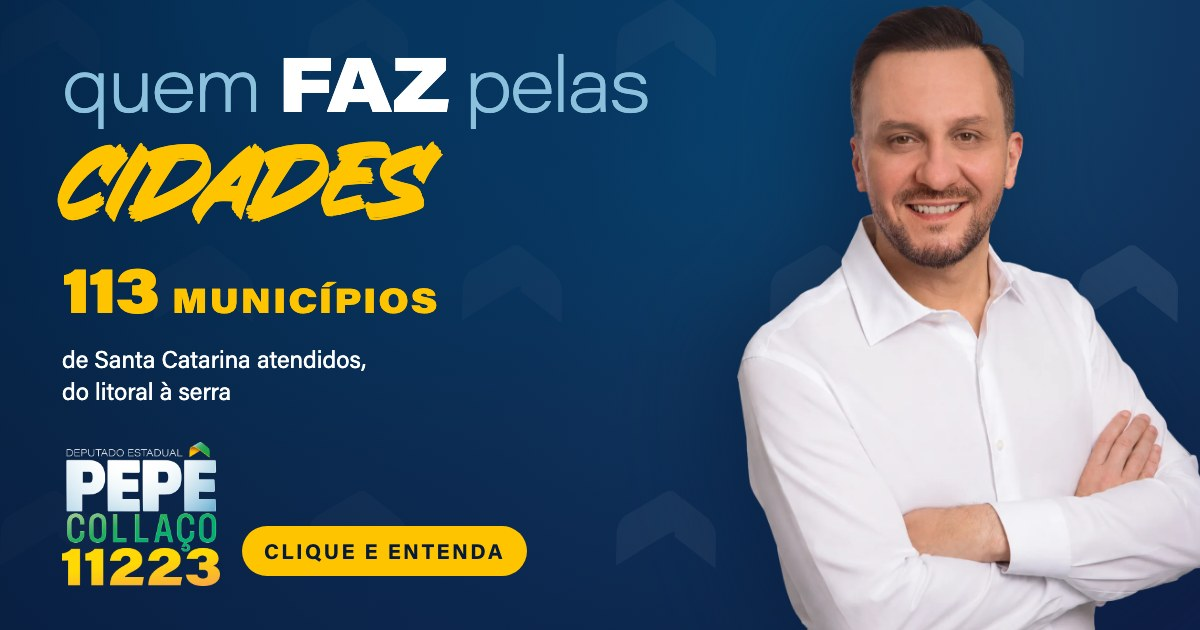
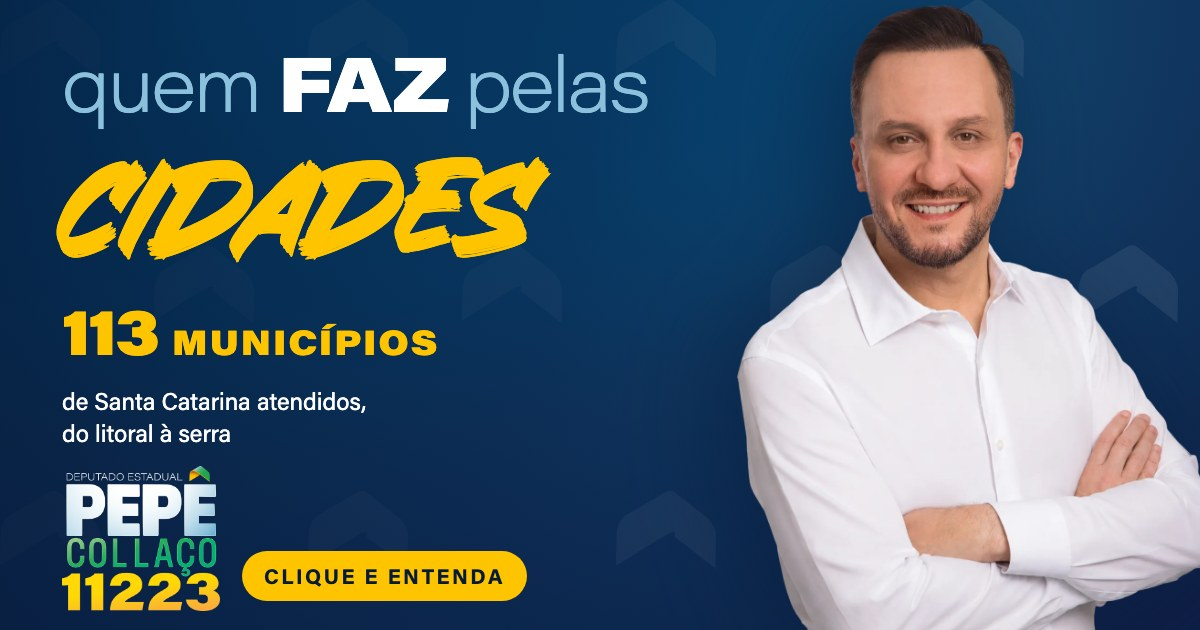
Aumenta o assunto, aproxima o retrato e empilha a assinatura
Três coisas.

O assunto do título cresce bastante: sai de 1,38em do h1 e passa a ser
medido na janela, clamp(44px, 11.5vw, 108px). Preso ao h1 ele estourava
a coluna em 320 px, onde "EDUCAÇÃO" é a palavra mais comprida do
sistema. Mesmo salto na OG. O til ganhou respiro porque subia acima da
altura de letra e encostava na linha de cima.

O retrato para de ficar longe do texto. O problema não era a margem do
arquivo, era a do deputado: medindo o canal alfa, nos 40% de cima o
conteúdo só começa em x=150 de 677, quase um quinto de largura vazia, e
só o cotovelo chega a x=0, no meio da altura. Centrado na coluna, isso
somava 26 px de centragem a 84 px de sobra e abria 228 px de azul entre
o fim do parágrafo e o rosto. Agora a imagem encosta à esquerda da
coluna, é puxada por cima do vão e cresce: o vão caiu para 127 px e
quem limita o valor é o cotovelo, não a borda do arquivo.

A assinatura QUEM FAZ REPRESENTA passa a ser escrita na sequência da
arte da Federação: empilhada em três linhas, QUEM menor em cima, FAZ
dominante no meio, REPRESENTA em pincel embaixo, a palavra mais larga
do lockup. Valia para o fecho de Tubarão e de Cidades e para o hero da
home, que estavam escrevendo a assinatura em linha corrida com uma
palavra trocada de fonte. A regra ficou registrada no guia.

Changed region(s): [[0.0308, 0.2111, 0.4625, 0.9952]]

diff --git a/quem-faz/quem-faz.css b/quem-faz/quem-faz.css
@@ -132,11 +132,17 @@ h1 { font-size: clamp(30px, 6.6vw, 56px); line-height: 1; }
    que a assinatura reserva para a palavra à mão. */
 h1 .pincel {
   display: block;
-  margin-top: .04em;
+  /* o til de TUBARÃO e o de EDUCAÇÃO sobem acima da altura de letra e
+     chegavam a encostar na linha de cima; o respiro é dado aqui */
+  margin-top: .12em;
   font-family: var(--fonte-brush);
   font-weight: 400;
-  font-size: 1.38em;
-  line-height: .96;
+  /* Medido na janela, e não em em do h1: preso ao h1 o assunto estourava a
+     coluna nas telas de 320 px, onde "EDUCAÇÃO" é a palavra mais comprida
+     do sistema. O teto de 108 px é o maior corpo em que ela ainda cabe na
+     coluna do hero em 1280. */
+  font-size: clamp(44px, 11.5vw, 108px);
+  line-height: .94;
   letter-spacing: 0;
   text-transform: uppercase;
   color: var(--cor-acento);
@@ -210,10 +216,21 @@ h3 {
 }
 
 .hero-retrato { position: relative; align-self: end; }
+
+/* O recorte tem cerca de 20% de largura vazia à esquerda na faixa da cabeça:
+   medindo o canal alfa do arquivo, o conteúdo só começa em x=150 de 677 nos
+   40% de cima, e só o cotovelo chega a x=0, no meio da altura. Centrar a
+   imagem na coluna, como estava, somava essa sobra aos 26 px da centragem e
+   abria 228 px de azul entre o fim do parágrafo e o rosto.
+
+   Então a imagem encosta à esquerda da coluna e ainda é puxada por cima do
+   vão. Quem manda no valor é o cotovelo, não a borda do arquivo: passar
+   disso e ele começa a esbarrar no parágrafo. */
 .hero-retrato img {
-  width: min(380px, 100%);
-  margin-inline: auto;
+  width: min(480px, 126%);
+  margin-inline: 0 auto;
   margin-bottom: -2px;
+  transform: translateX(-20%);
   filter: drop-shadow(-14px 10px 44px rgba(6, 26, 58, .55));
 }
 @media (max-width: 860px) {
@@ -377,6 +394,43 @@ section { padding-block: clamp(52px, 9vw, 88px); }
 /* ── Fecho ────────────────────────────────────────────────────────────────*/
 .fecho { text-align: center; }
 .fecho .marca-vote { width: min(230px, 62vw); margin: 0 auto clamp(26px, 5vw, 34px); }
+/* ── A assinatura QUEM FAZ REPRESENTA ────────────────────────────────────
+   Quando a frase aparece inteira, ela vem empilhada na sequência da arte da
+   Federação: QUEM em cima, menor; FAZ no meio, dominante, na Black; e
+   REPRESENTA embaixo, em pincel. Não é uma linha só com uma palavra
+   trocada de fonte: é o lockup, e o lockup tem ordem e tem degrau.
+
+   Os outros lemas, que não são a assinatura, seguem em linha corrida com a
+   palavra final em pincel. */
+.fecho .assinatura {
+  display: grid;
+  justify-items: center;
+  gap: 0;
+  margin: 0 auto;
+  max-width: none;
+  line-height: .88;
+}
+.fecho .assinatura .q {
+  font-family: var(--fonte-display);
+  font-weight: var(--peso-display-leve);
+  font-size: clamp(21px, 4.4vw, 34px);
+  letter-spacing: .04em;
+  color: var(--cor-texto-suave);
+}
+.fecho .assinatura .f {
+  font-family: var(--fonte-display);
+  font-weight: var(--peso-display-forte);
+  font-size: clamp(38px, 8vw, 62px);
+  letter-spacing: -.02em;
+}
+.fecho .assinatura .pincel {
+  display: block;
+  /* na arte REPRESENTA é a palavra mais larga do lockup, e vem colada no FAZ */
+  margin-top: -.04em;
+  font-size: clamp(44px, 9.6vw, 78px);
+  padding-inline: 0;
+}
+
 .fecho .lema {
   font-family: var(--fonte-display);
   font-size: clamp(21px, 4.6vw, 32px);

diff --git a/index.html b/index.html
@@ -216,6 +216,26 @@
        porque a fonte original tem pesos que não licenciamos. */
     .hero-marca { margin: 0 0 26px; }
     .hero-marca img { width: min(430px, 88%); height: auto; }
+    /* A assinatura QUEM FAZ REPRESENTA vem empilhada na sequência da arte da
+       Federação: QUEM em cima, menor; FAZ no meio, dominante; REPRESENTA
+       embaixo, em pincel. É lockup, tem ordem e tem degrau, então não vira
+       uma linha só com uma palavra trocada de fonte. */
+    .hero-frase.assinatura { display: grid; justify-items: start; line-height: .88; margin-bottom: 18px; }
+    .assinatura .q {
+      font-family: var(--fonte-display);
+      font-weight: var(--peso-display-leve);
+      font-size: clamp(19px, 2.2vw, 30px);
+      letter-spacing: .04em;
+      color: var(--cor-texto-suave);
+    }
+    .assinatura .f {
+      font-family: var(--fonte-display);
+      font-weight: var(--peso-display-forte);
+      font-size: clamp(34px, 4.2vw, 56px);
+      letter-spacing: -.02em;
+    }
+    .assinatura em { font-size: clamp(38px, 4.9vw, 66px); margin-top: -.04em; display: block; }
+
     .hero-frase {
       font-size: clamp(19px, 2.5vw, 27px); font-weight: var(--peso-forte);
       line-height: 1.24; letter-spacing: -0.01em; margin: 0 0 14px;
@@ -504,7 +524,7 @@
                alt="Vote Pepê Collaço, deputado estadual, 11223"
                width="960" height="879" fetchpriority="high" />
         </h1>
-        <p class="hero-frase">Quem faz,<br><em>representa!</em></p>
+        <p class="hero-frase assinatura"><span class="q">Quem</span><span class="f">faz</span><em>representa</em></p>
         <p class="hero-sub">Advogado, ex-vereador, ex-vice-prefeito de Tubarão e deputado estadual. Um mandato com foco em infraestrutura, saúde, inclusão e desenvolvimento regional.</p>
         <div class="hero-botoes">
           <a href="https://wa.me/5548999412599" class="btn btn-primario" target="_blank" rel="noopener">

diff --git a/quem-faz/pelas-cidades/index.html b/quem-faz/pelas-cidades/index.html
@@ -397,7 +397,7 @@
     <div class="wrap fecho">
       <img class="marca-vote rv" src="../../assets/brand/marca/vote-11223-escuro-960.webp"
            alt="Vote Pep&#234; 11223, Deputado Estadual" width="960" height="879" />
-      <p class="lema rv">Quem faz <span class="pincel">representa</span></p>
+      <p class="lema assinatura rv"><span class="q">Quem</span><span class="f">faz</span><span class="pincel">representa</span></p>
       <div class="botoes rv">
         <a class="btn btn-acento" id="compartilhar-2" href="#">Mandar no WhatsApp</a>
         <a class="btn btn-vazado" href="https://www.pepecollaco.com/">Conhecer o mandato</a>

diff --git a/quem-faz/por-tubarao/index.html b/quem-faz/por-tubarao/index.html
@@ -396,7 +396,7 @@
     <div class="wrap fecho">
       <img class="marca-vote rv" src="../../assets/brand/marca/vote-11223-escuro-960.webp"
            alt="Vote Pepê 11223, Deputado Estadual" width="960" height="880" />
-      <p class="lema rv">Quem faz <span class="pincel">representa</span></p>
+      <p class="lema assinatura rv"><span class="q">Quem</span><span class="f">faz</span><span class="pincel">representa</span></p>
       <div class="botoes rv">
         <a class="btn btn-acento" id="compartilhar-2" href="#">Mandar no WhatsApp</a>
         <a class="btn btn-vazado" href="https://www.pepecollaco.com/">Conhecer o mandato</a>

diff --git a/quem-faz/og/template.html b/quem-faz/og/template.html
@@ -113,10 +113,11 @@
      do WhatsApp é esta palavra que a pessoa lê. */
   .pincel {
     display: block;
-    margin-top: .04em;
+    /* o til sobe acima da altura de letra e encostava na linha de cima */
+    margin-top: .14em;
     font-family: var(--fonte-brush);
     font-weight: 400;
-    font-size: 1.34em;
+    font-size: 1.72em;
     line-height: .96;
     letter-spacing: 0;
     text-transform: uppercase;

diff --git a/IDENTIDADE.md b/IDENTIDADE.md
@@ -287,6 +287,20 @@ assunto embaixo, sozinho na linha, em pincel amarelo. A caixa vem do HTML,
 porque cada degrau tem a sua, e é a diferença de caixa somada à de peso que
 constrói a hierarquia.
 
+**A frase inteira tem sequência, e a sequência é sempre a mesma.** Quando
+aparecer "QUEM FAZ REPRESENTA" por extenso, ela vem **empilhada em três
+linhas, nesta ordem**, como na arte da Federação:
+
+```
+QUEM          menor, Extra Light, apagada
+FAZ           dominante, Black
+REPRESENTA    pincel, amarelo, a palavra mais larga do lockup
+```
+
+Não é uma linha corrida com uma palavra trocada de fonte. É lockup: tem ordem,
+tem degrau de corpo e tem a palavra à mão embaixo. Escrever de outro jeito é
+escrever a assinatura errada.
+
 **Duas por página, no máximo, e longe uma da outra.** Nas páginas QUEM FAZ são
 o assunto do título e a palavra final do lema: a abertura e o fecho. Duas
 palavras em pincel dentro do mesmo bloco competem entre si e nenhuma ganha.
